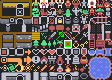
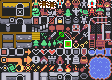
-game can do multiple stages -game has a game win screen -'next stage' button calls a func -new player visual -game saves score between stages and has a max stage var

Changed region(s): [[0.3482, 0.0, 0.5089, 0.1]]

diff --git a/main.js b/main.js
@@ -159,7 +159,9 @@
     // clean up this game instance
     // we keep a reference for live-reloading
     stage: 1,
+    maxStage: 3,
     cleanup: cleanup,
+    score: 0
   };
 
   // this gets called by the menu system
@@ -192,6 +194,13 @@
     game.engine.start();
   }
 
+  //load the next level of the game
+  //use this to not reset score and items on new level
+  function loadNextLevel(game){
+    //temporarily call init
+    init(game);
+  }
+
   // this gets called at the end of the game when we want
   // to exit back out and clean everything up to display
   // the menu and get ready for next round
@@ -214,6 +223,7 @@
       game.monsters = null;
       game.amulet = null;
       game.stage = 1;
+      game.score = 0;
     }
 
     // hide the toast message
@@ -432,7 +442,7 @@
         ["p", "Trash"],
       ],
       // the player's stats
-      stats: { name: "Quintin", hp: 10, score: 0, stage: Game.stage },
+      stats: { name: "Quintin", hp: 10, score: Game.score, stage: Game.stage },
       // the ROT.js scheduler calls this method when it is time
       // for the player to act
       // what this does is lock the engine to take control
@@ -454,13 +464,15 @@
     const key = entity._x + "," + entity._y;
     if (key == Game.amulet) {
       // the amulet is hit initiate the win flow below
-      win();
+      //check if level is cleared or game is won
+      Game.stage == Game.maxStage ? realWin() : win();
     } else if (Game.items[key] == "g") {
       // if the player stepped on gold
       // increment their gold stat,
       // show a message, re-render the stats
       // then play the pickup/win sound
-      Game.player.stats.score += 1;
+      Game.score += 1;
+      Game.player.stats.score = Game.score;
       renderStats(Game.player.stats);
       toast("You found bug stuff!");
       sfx["win"].play();
@@ -631,7 +643,8 @@
         const key = m._x + "," + m._y;
         removeMonster(m);
         sfx["kill"].play();
-        Game.player.stats.score += 1;
+        Game.score += 1;
+        Game.player.stats.score = Game.score;
         renderStats(Game.player.stats);
         return true;
       }
@@ -679,7 +692,7 @@
     checkDeath(receiver);
   }
 
-  // this gets called when the player wins the game
+  // this gets called when the player clears a stage
   function win() {
     Game.engine.lock();
     // play the win sound effect a bunch of times
@@ -689,10 +702,24 @@
       }, 100 * i);
     }
     // tear down the game
-    destroy(Game);
     console.log(`You are now going into Stage: ${(Game.stage += 1)}`);
     // show the blingy "win" screen to the user
     showScreen("win");
+  }
+
+  //this get called when player wins game
+  function realWin(){
+    Game.engine.lock();
+    // play the win sound effect a bunch of times
+    for (let i = 0; i < 5; i++) {
+      setTimeout(function () {
+        sfx["win"].play();
+      }, 100 * i);
+    }
+    // tear down the game
+    destroy(Game);
+    // show the blingy "win" screen to the user
+    showScreen("realWin");
   }
 
   // this gets called when the player loses the game
@@ -826,6 +853,14 @@
     if (actionbutton) {
       actionbutton.focus();
     }
+  }
+
+  //go to the next Stage
+  nextStage = function nextStage(){
+    showScreen("game");
+    console.log(`You are now playing Stage: ${Game.stage}`);
+    sfx["rubber"].play();
+    loadNextLevel(Game);
   }
 
   // set the end-screen message to show

diff --git a/index.html b/index.html
@@ -117,7 +117,7 @@
         </ul>
       </div>
       <button class="nes-btn is-success action">Ok</button>
-    </div>    
+    </div>
 
     <!-- instructions screen -->
     <div id="instructions" class="screen modal">
@@ -129,14 +129,24 @@
       <button class="nes-btn is-success action">Ok</button>
     </div>
 
-    <!-- win screen -->
+    <!-- stage win screen -->
     <div id="win" class="screen modal">
       <p class="nes-container is-rounded is-dark">Stage cleared!</p>
       <div class="nes-container is-rounded is-dark">
         <p><div class="sprite amulet"></div></p>
         <p>You found your friends and successfully escaped from this place! Now to continue to save everybody else.</p>
       </div>
-      <button id="nextStage" class="nes-btn is-success action">Next Stage</button>
+      <button id="nextStage" class="nes-btn is-success" onclick="nextStage()">Next Stage</button>
+      <button class="nes-btn is-error action">Main Menu</button>
+    </div>
+
+    <!-- game win screen -->
+    <div id="realWin" class="screen modal">
+      <p class="nes-container is-rounded is-dark">Congrats! <br> You Win!</p>
+      <div class="nes-container is-rounded is-dark">
+        <p><div class="sprite amulet"></div></p>
+        <p>You found all your friends in the house. Time to find a new home</p>
+      </div>
       <button class="nes-btn is-error action">Main Menu</button>
     </div>
 
